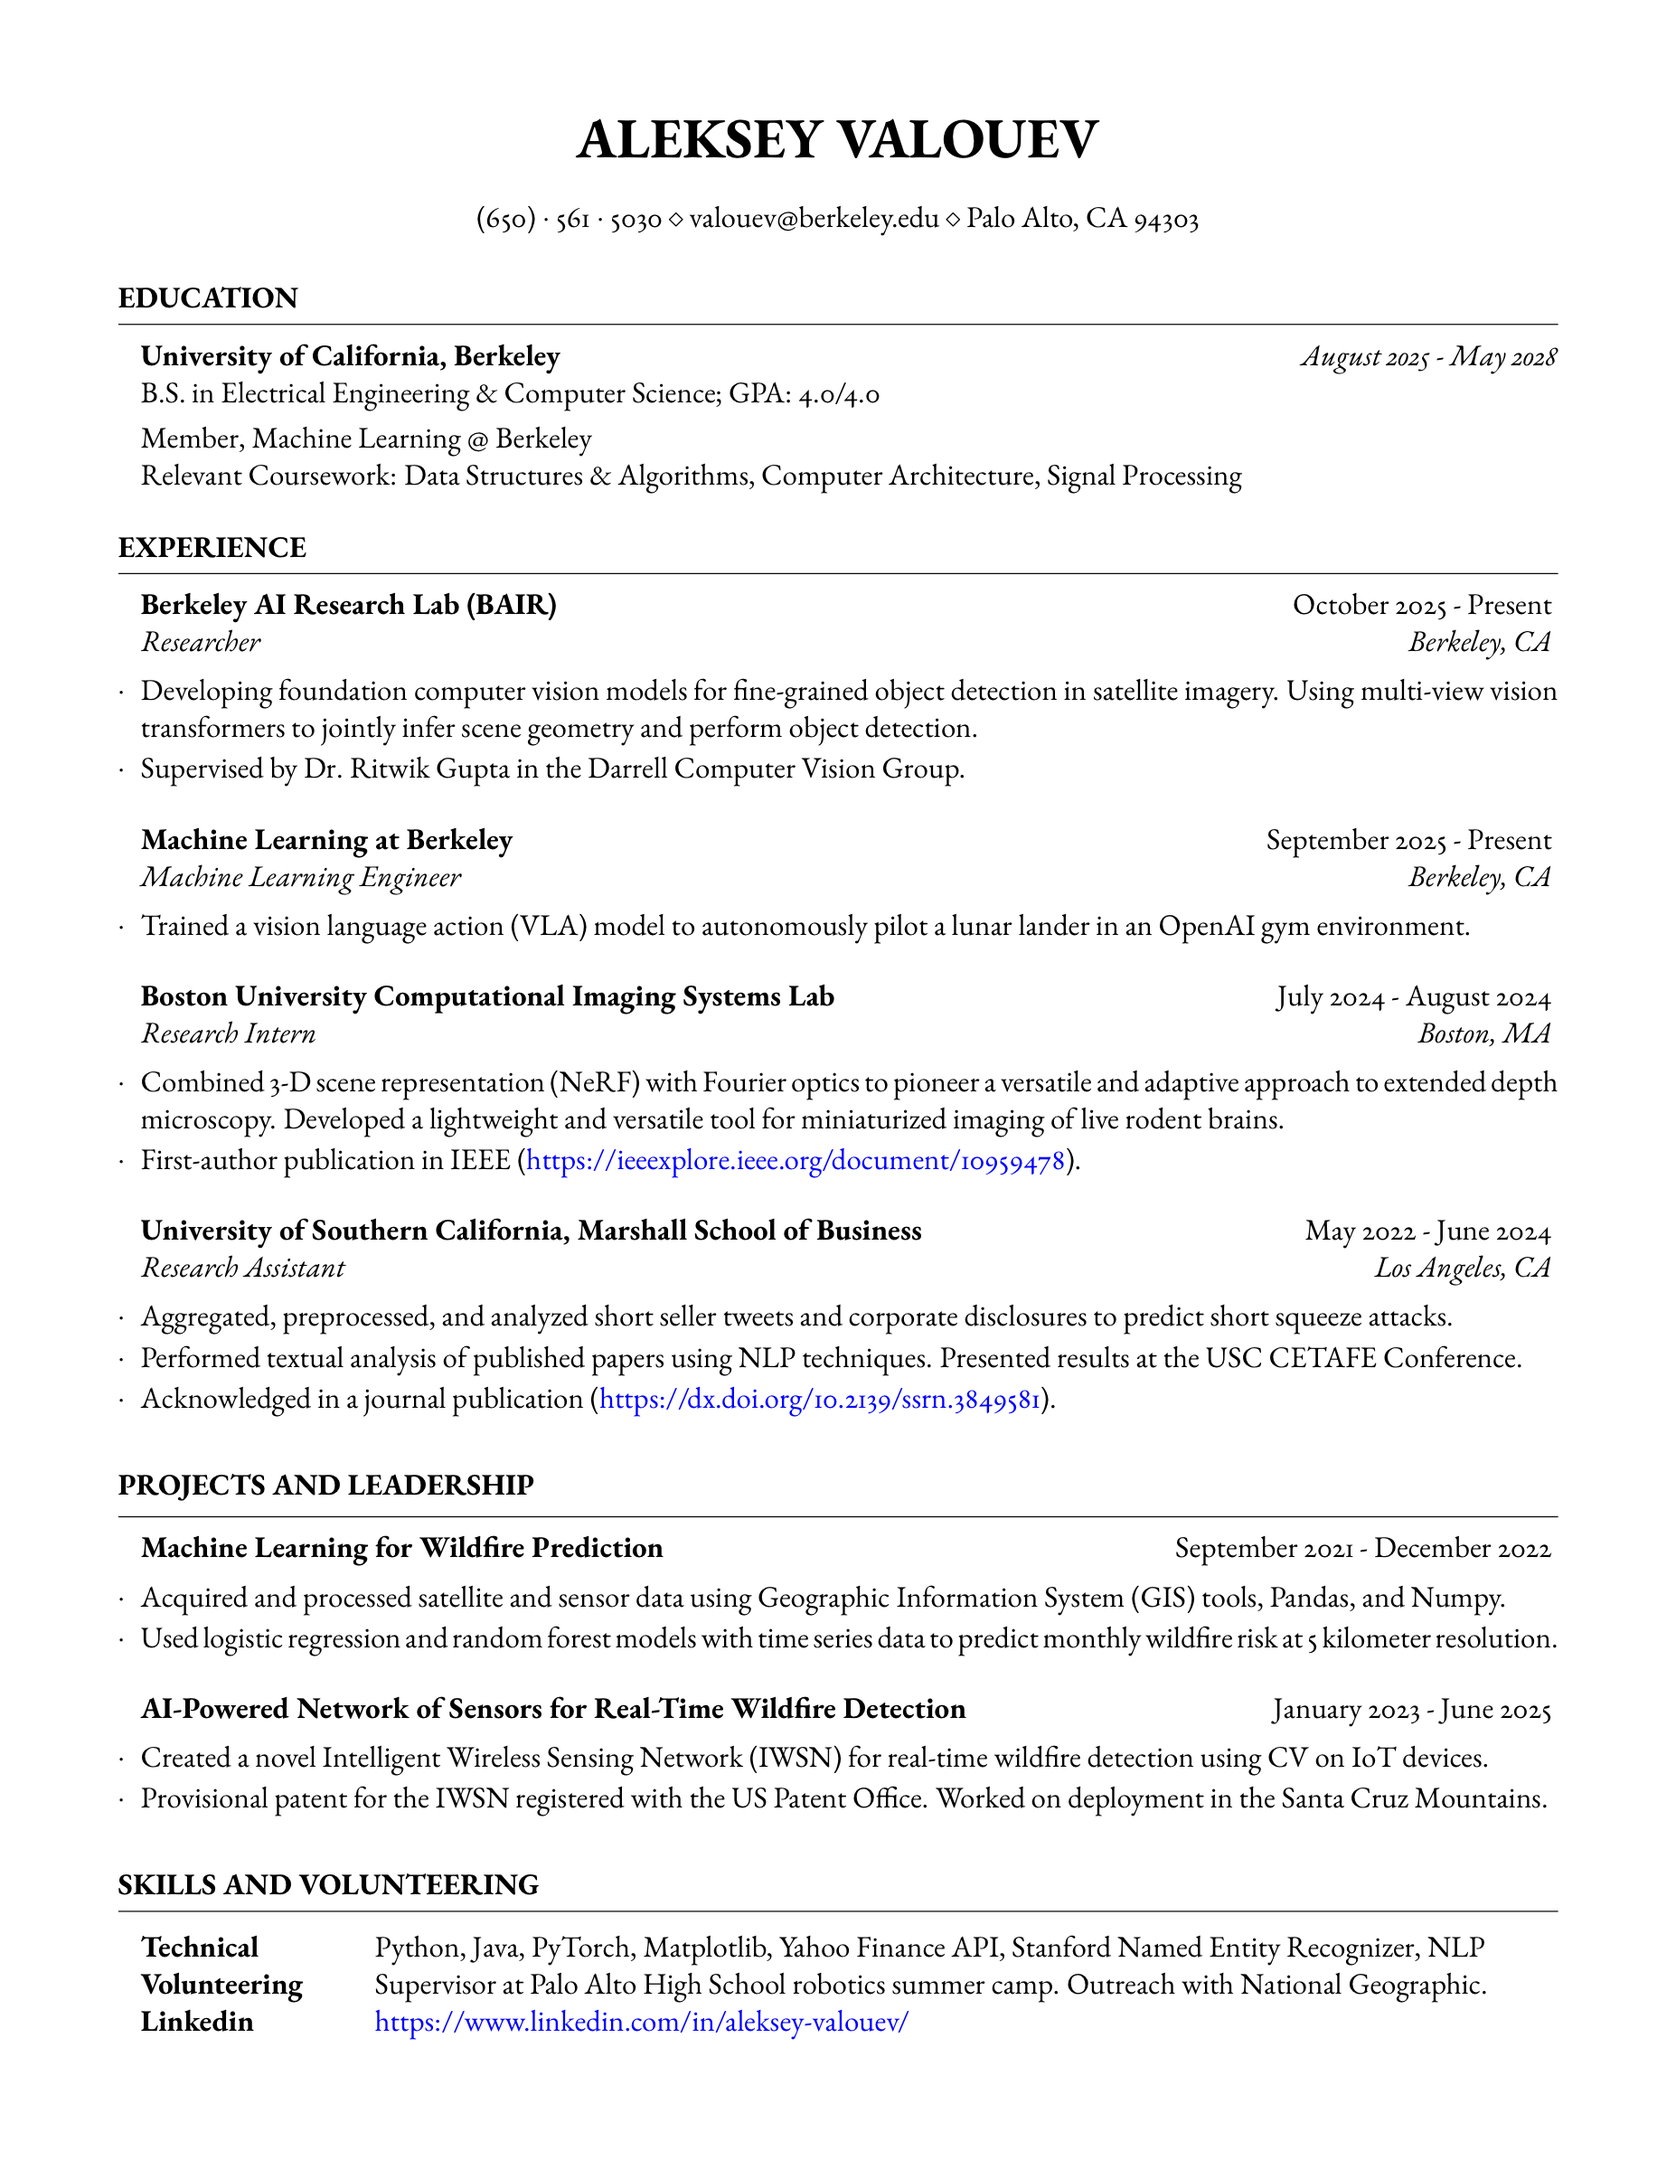
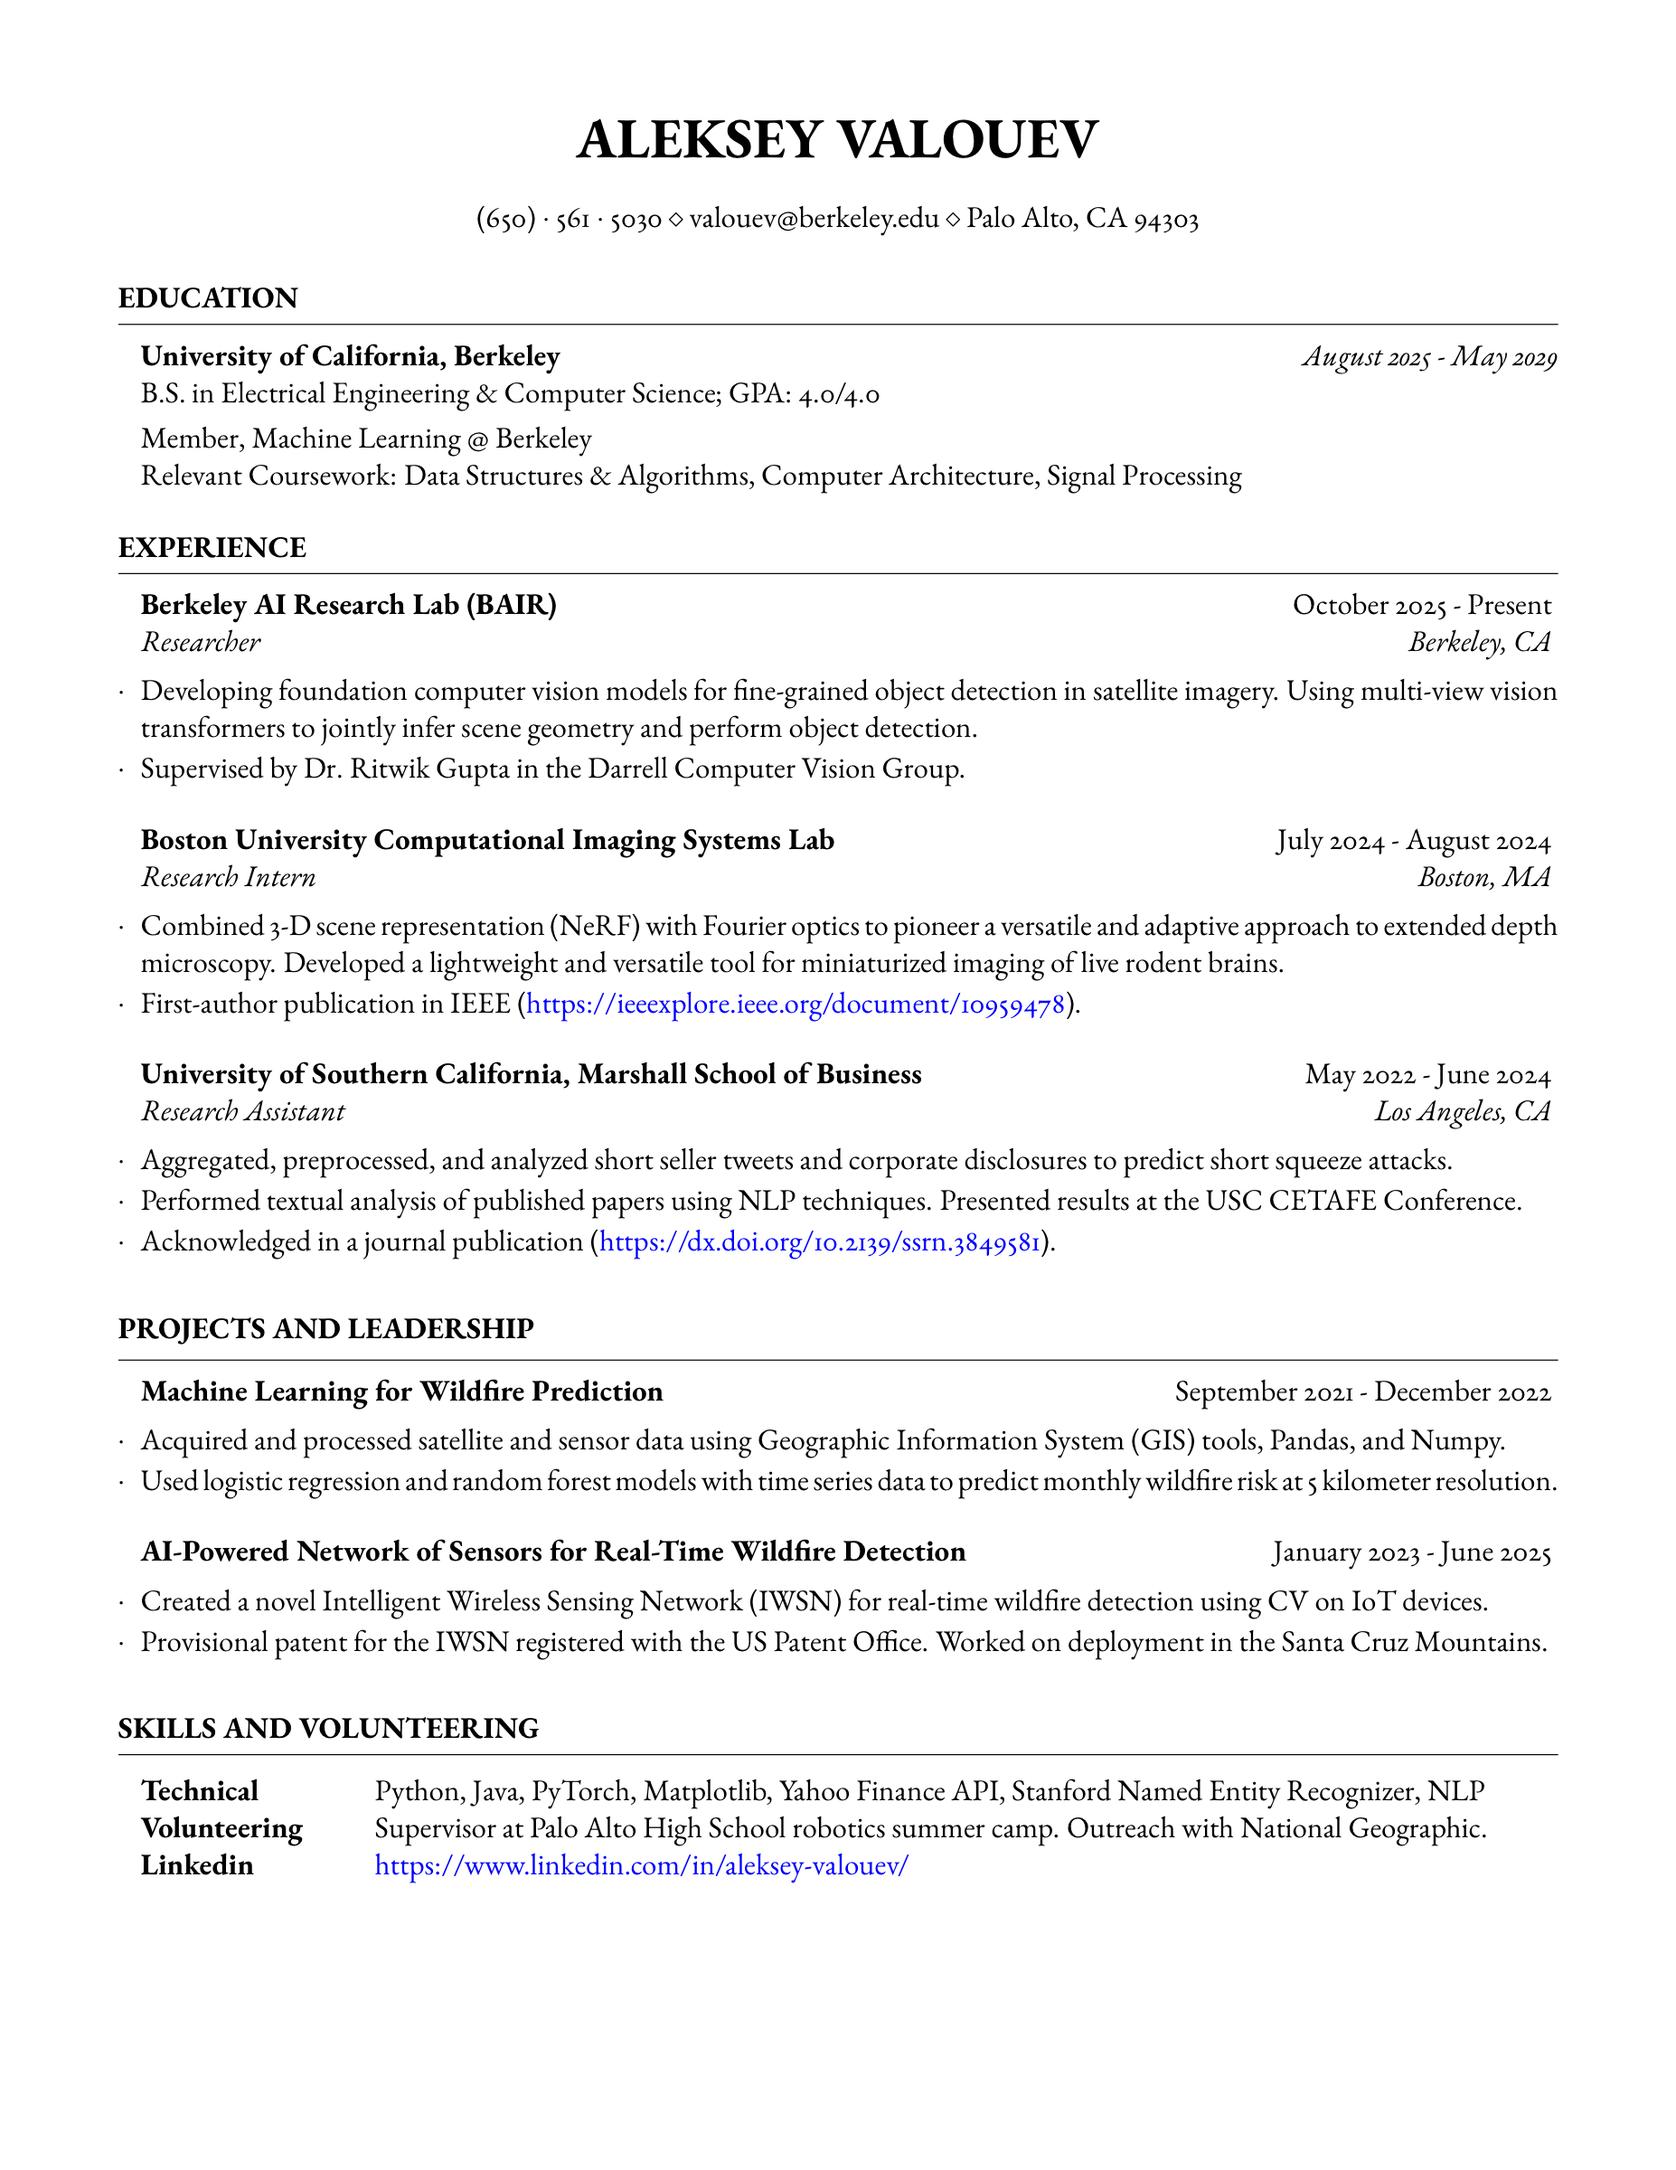
new branch

Changed region(s): [[0.0615, 0.375, 0.9223, 0.9375], [0.8608, 0.1562, 0.9223, 0.1875], [0.7994, 0.1562, 0.8301, 0.1875]]

diff --git a/aleksey_valouev_cv.tex b/aleksey_valouev_cv.tex
@@ -50,7 +50,7 @@
 
 \begin{rSection}{Education}
 	
-	\textbf{University of California, Berkeley} \hfill \textit{August 2025 - May 2027} \\ 
+	\textbf{University of California, Berkeley} \hfill \textit{August 2025 - May 2029} \\ 
 	B.S. in Electrical Engineering \& Computer Science; GPA: 4.0/4.0 \smallskip \\
 	Member, Machine Learning @ Berkeley \\
 	Relevant Coursework: Data Structures \& Algorithms, Computer Architecture, Signal Processing
